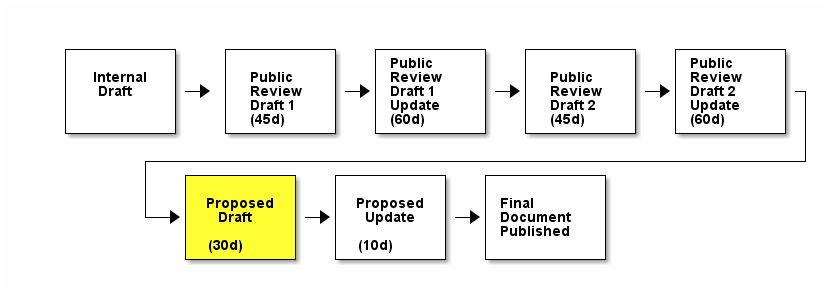
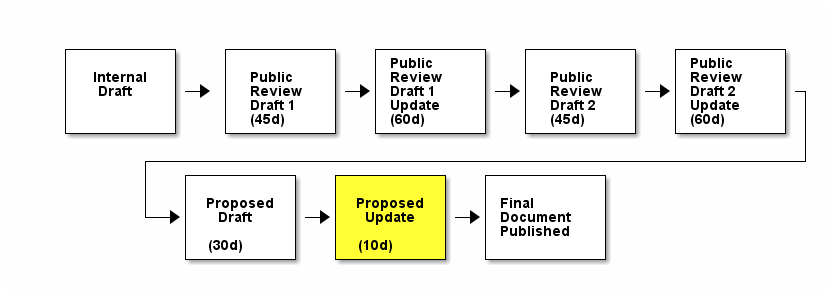
Update for closed release draft
updated page to show closed proposed draft stage

Changed region(s): [[0.3916, 0.5816, 0.5422, 0.8878], [0.2108, 0.5816, 0.3614, 0.8878]]

diff --git a/index.html b/index.html
@@ -458,8 +458,8 @@ body.book #toc,body.book #preamble,body.book h1.sect0,body.book .sect1>h2{page-b
 <div id="header">
 <h1>Biometrics Security iTC (BIO-iTC)</h1>
 <div class="details">
-<span id="revnumber">version 1.4,</span>
-<span id="revdate">2020-03-13</span>
+<span id="revnumber">version 1.5,</span>
+<span id="revdate">2020-04-20</span>
 </div>
 <div id="toc" class="toc2">
 <div id="toctitle">Table of Contents</div>
@@ -491,14 +491,14 @@ body.book #toc,body.book #preamble,body.book h1.sect0,body.book .sect1>h2{page-b
 <h2 id="_current_status">Current Status</h2>
 <div class="sectionbody">
 <div class="paragraph">
-<p>The BIO-iTC Proposed (Release) Draft comment period has now been opened.</p>
+<p>The BIO-iTC Proposed (Release) Draft comment period has now been closed. Publication of the documents are planned for early May.</p>
 </div>
 <div class="paragraph">
 <p>The chart below shows the expected timeline for producing the final documents. More details are provided in the Proposed (Release) Draft Overview document.</p>
 </div>
 <div class="imageblock">
 <div class="content">
[2 lines of base64/hex data omitted]
 </div>
 </div>
 </div>
@@ -537,6 +537,20 @@ body.book #toc,body.book #preamble,body.book h1.sect0,body.book .sect1>h2{page-b
 <div class="sect1">
 <h2 id="_current_documents_for_review">Current Documents for Review</h2>
 <div class="sectionbody">
+<div class="paragraph">
+<p><strong>NONE</strong></p>
+</div>
+</div>
+</div>
+<div class="sect1">
+<h2 id="_previous_documents_for_review">Previous Documents for Review</h2>
+<div class="sectionbody">
+<div class="paragraph">
+<p>For historical purposes, these are the documents from the previous Public Review periods.</p>
+</div>
+<div class="paragraph">
+<p><strong><em>Proposed (Release) Draft</em></strong></p>
+</div>
 <div class="dlist">
 <dl>
 <dt class="hdlist1">Publication Date (Comments Period Starts)</dt>
@@ -589,14 +603,6 @@ body.book #toc,body.book #preamble,body.book h1.sect0,body.book .sect1>h2{page-b
 </tr>
 </tbody>
 </table>
-</div>
-</div>
-<div class="sect1">
-<h2 id="_previous_documents_for_review">Previous Documents for Review</h2>
-<div class="sectionbody">
-<div class="paragraph">
-<p>For historical purposes, these are the documents from the previous Public Review periods.</p>
-</div>
 <div class="paragraph">
 <p><strong><em>Public Review Draft 2</em></strong></p>
 </div>
@@ -706,8 +712,8 @@ body.book #toc,body.book #preamble,body.book h1.sect0,body.book .sect1>h2{page-b
 </div>
 <div id="footer">
 <div id="footer-text">
-Version 1.4<br>
-Last updated 2020-03-13 10:43:04 -0400
+Version 1.5<br>
+Last updated 2020-04-20 09:30:58 -0400
 </div>
 </div>
 </body>
